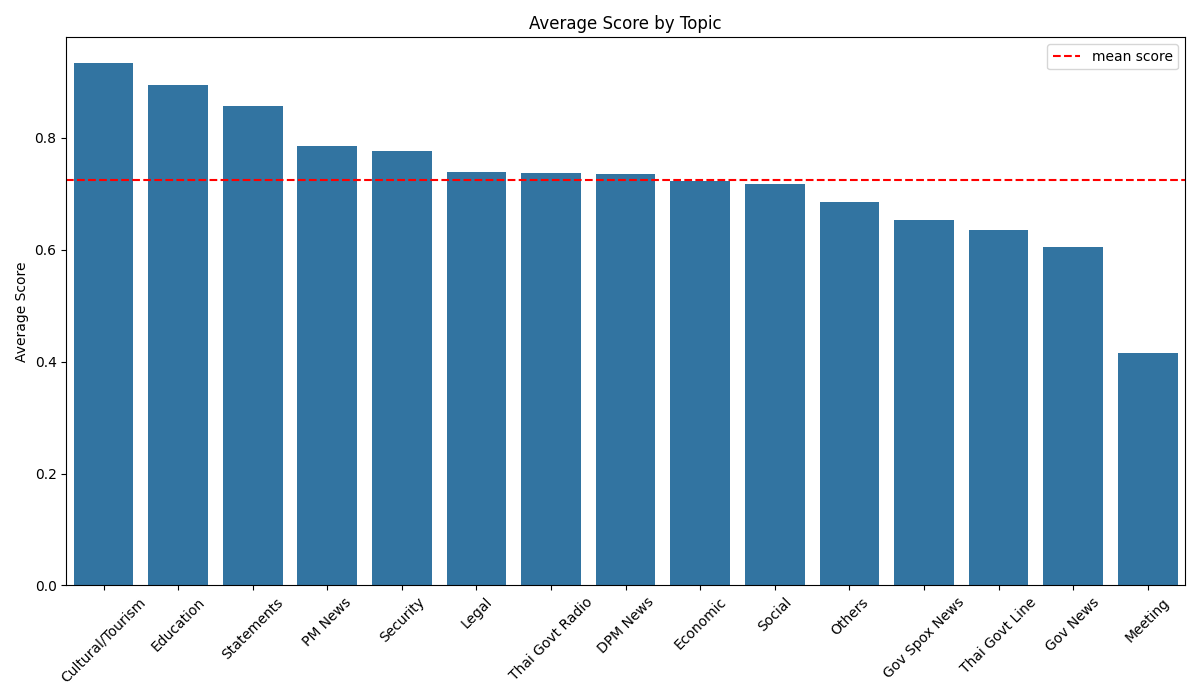
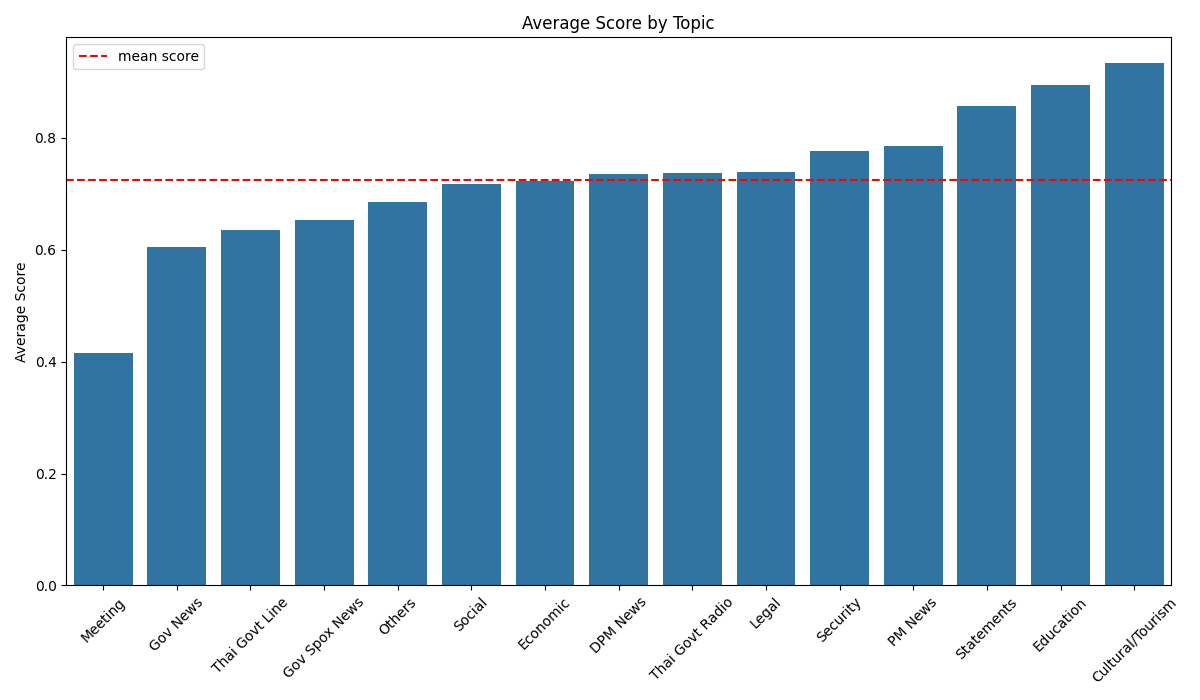
ascending = True

diff --git a/analysis/analysis.py b/analysis/analysis.py
@@ -105,7 +105,7 @@ def plot_frequency_and_avg_score_by_topic(mean_score=None):
         }
     )
     plt.figure(figsize=FIGSIZE)
-    sns.barplot(data=df, x="topic", y="frequency", order=df.sort_values("frequency", ascending=False).topic)
+    sns.barplot(data=df, x="topic", y="frequency", order=df.sort_values("frequency", ascending=True).topic)
     plt.title("Frequency by Topic")
     plt.xlabel("")
     plt.ylabel("Frequency")
@@ -115,7 +115,7 @@ def plot_frequency_and_avg_score_by_topic(mean_score=None):
     # plt.show()
 
     plt.figure(figsize=FIGSIZE)
-    sns.barplot(data=df, x="topic", y="avg_score", order=df.sort_values("avg_score", ascending=False).topic)
+    sns.barplot(data=df, x="topic", y="avg_score", order=df.sort_values("avg_score", ascending=True).topic)
     if mean_score:
         plt.axhline(mean_score, color="red", linestyle="--", label="mean score")
         plt.legend()
